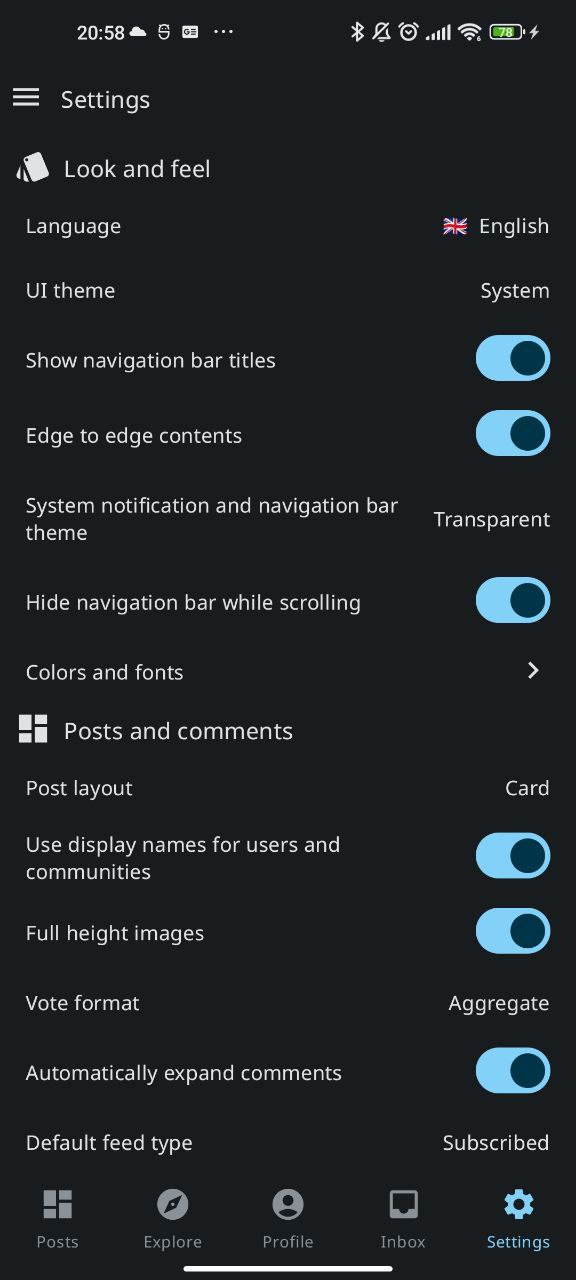
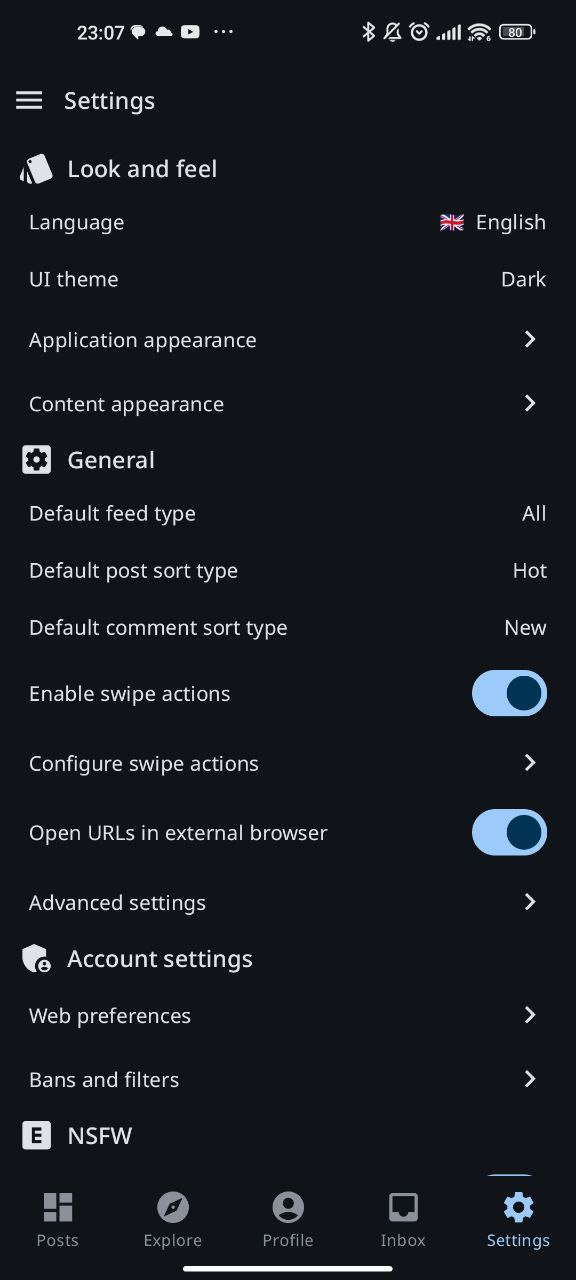
chore: update user manual

diff --git a/docs/user_manual/anon_user.md b/docs/user_manual/anon_user.md
@@ -45,6 +45,8 @@ If your preferred instance is not listed, you can add a new one using the "+" bu
 <img width="310" alt="side menu select instance" src="images/anon_select_instance.png" />
 <img width="310" alt="add instance" src="images/anon_add_instance.png" />
 
+It is possible to reorder items in this list to arrange how instances are displayed.
+
 ### 1.4 Community detail
 
 By tapping on the community info above each post title, you can open the community detail screen,
@@ -72,7 +74,17 @@ information.
 The explore screens allows you to search Lemmy (among All or local feeds) for contents and filter by
 a query string and result type (post, comment, communities, users or everything).
 
-<img width="310" alt="explore" src="images/anon_explore.png" />
+You can change the result type with the second to last action in the top bar, the available options are:
+
+- posts
+- communities
+- comments
+- users
+- URLs.
+
+As in the home screen, you can change the sort type with the last action on the right in the top bar.
+
+<img width="310" alt="explore" src="images/explore.jpg" />
 
 ### 1.7 Profile and Inbox
 
@@ -89,38 +101,15 @@ The settings screen allows you to customize the look and behaviour of your app.
 - Look and feel:
     - Language: choose UI language (app specific);
     - UI theme: choose between light, dark, totally dark or system theme;
-    - System notification and navigation bar theme: if you enable edge-to-edge display, choosing "
-      Transparent" makes the status and nav bar completely transparent, otherwise they have the
-      system color with a slight alpha to make them more visible;
-    - Show navigation bar titles: include the section titles in the bottom navigation bar;
-    - Colors and fonts: opens the color and font configuration screen;
-- Post and comments:
-    - Post layout: choose a layout (Card, Compact, Full) for posts;
-    - Use display names for users and communities: if enabled, uses the user display name and the
-      community title whenever possible, otherwise fallbacks to Lemmy handles (
-      e.g. `!raccoonforlemmy@lemmy.world`);
-    - Vote format: see the score of posts and comments as aggregated (`upvotes - downvotes`), split
-      or percentage (`upvotes / (upvotes + downvotes) * 100`);
-    - Full height images: show images with scaled width and full height (instead of capping the
-      height) in the feed;
+    - Application appearance: opens the configuration screen for colors and fonts of the user interface;
+    - Content appearance: opens the configuration screen for fonts and style of posts and comments;
+- General:
     - Default feed type: listing type for the home screen applied by default
     - Default post sort type: sort type for the home, community detail and user detail applied by
       default;
     - Default comment sort type: sort type for post detail applied by default to comments;
-- Behaviour:
-    - Edge to edge contents: enable the view from top to bottom edge for home, community detail,
-      user detail, post detail and profile to maximize the space dedicated to contents;
-    - Disable infinite scrolling: if this option is enabled, instead of automatically fetching new
-      contents while scrolling (in home, community detail, post detail, user detail) an explicit "
-      Load more" button is shown, in order to prevent the "doom scrolling" effect;
-    - Zombie mode interval duration: amount of time between automatic scroll in "lazy mode";
-    - Zombie mode scroll amount: translation amount for the automatic scroll in "lazy mode";
-    - Hide navigation bar while scrolling: makes the bottom navigation bar invisible while scrolling
-      down to maximize the space dedicated to contents;
-    - Open links in external browser: rely on the external browser instead of in-app web view;
-    - Automatically expand comments: expand all comment threads while opening the post detail;
-    - Automatically load images: load images and videos automatically in post and comments;
-    - Search posts only in title: enable exact match in the Explore section while searching posts;
+    - Open URLs in external browser: rely on the external browser instead of in-app web view;
+    - Advanced settings: opens a detailed configuration screen for more advanced options;
 - NSFW:
     - Include NSFW contents: determine whether NSFW contents are included in the feed by default;
     - Blur NSFW images: in home feed and community (unless the community is marked as NSFW as a
@@ -145,7 +134,7 @@ via adb or the "Device Explorer" if you are using Android Studio.
 <img width="310" alt="settings first part" src="images/anon_settings_1.jpg" />
 <img width="310" alt="settings second part" src="images/anon_settings_2.jpg" />
 
-#### 1.8.1 Colors and fonts
+#### 1.8.1 Application appearance
 
 This screen allows to configure colors and fonts of the UI:
 
@@ -154,12 +143,8 @@ This screen allows to configure colors and fonts of the UI:
 - Custom theme color: (requires "Use dynamic color" option to be off) generate a palette by
   choosing a seed color from a predefined list or custom color;
 - Comment bar theme: palette of colors used to distinguish nested comments;
-- Comment bar width: allows to customize a multiplier applied to the width of comment bar indicating
-  the depth on the left of each comment;
-- UI font family: typeface used for the app UI elements (menus, labels, etc);
-- Content font family: typeface used for post and comments on Lemmy;
+- UI font: typeface used for the app UI elements (menus, labels, etc.);
 - UI text size: scale factor to apply to the app UI elements;
-- Content text size: scale factor to apply to posts and comments on Lemmy;
 
 By the way, if you like Android dynamic colors and you think that on Lemmy there are plenty of
 beautiful images you could set as your home screen background, have a look
@@ -167,7 +152,65 @@ at [this side project](https://github.com/diegoberaldin/CommonGround) of mine. I
 that allows you to configure remote image sources from the Lemmy-verse, preview how they look like
 and set them easily as wallpapers for your home and lock screens.
 
-<img width="310" alt="colors and fonts" src="images/anon_color_fonts.jpg" />
+<img width="310" alt="colors and fonts" src="images/anon_appearance.jpg" />
+
+#### 1.8.2 Content appearance
+
+This screen is useful to configure the aspect of Lemmy contents (usernames, community names, post and comments).
+
+- Text
+    - Content font family: typeface used for post and comments on Lemmy;
+    - Title text size:
+    - Post text size:
+    - Comment text size:
+    - Ancillary text size:
+- Customizations:
+    - Post layout:  choose a layout (Card, Compact, Full) for posts;
+    - Use display names for users and communities: if enabled, uses the user display name and the
+      community title whenever possible, otherwise fallbacks to Lemmy handles (
+      e.g. `!raccoonforlemmy@lemmy.world`);
+    - Full height images: show images with scaled width and full height (instead of capping the
+      height) in the feed;
+    - Vote format: see the score of posts and comments as aggregated (`upvotes - downvotes`), split
+      or percentage (`upvotes / (upvotes + downvotes) * 100`);
+    - Comment bar thickness: allows to customize a multiplier applied to the width of comment bar indicating
+      the depth on the left of each comment.
+
+You can see a preview of the result below the list of options.
+
+<img width="310" alt="settings first part" src="images/content_appearance_1.jpg" />
+<img width="310" alt="settings second part" src="images/content_appearance_2.jpg" />
+
+#### 1.8.3 Advanced settings
+
+This screen contains a series of less frequently used customization options:
+
+- Display:
+    - Show navigation bar titles: include the section titles in the bottom navigation bar;
+    - Edge to edge contents: enable the view from top to bottom edge for home, community detail,
+      user detail, post detail and profile to maximize the space dedicated to contents;
+    - System notification and navigation bar theme: if you enable edge-to-edge display, choosing "
+      Transparent" makes the status and nav bar completely transparent, otherwise they have the
+      system color with a slight alpha to make them more visible;
+    - Hide navigation bar while scrolling: makes the bottom navigation bar invisible while scrolling
+      down to maximize the space dedicated to contents;
+- Reading and contents:
+    - Default feed type for explore: default listing type used in the Explore screen;
+    - Default language in editor: language for newly created posts and comments;
+    - Disable infinite scrolling: if this option is enabled, instead of automatically fetching new
+      contents while scrolling (in home, community detail, post detail, user detail) an explicit "
+      Load more" button is shown, in order to prevent the "doom scrolling" effect;
+    - Automatically expand comments: expand all comment threads while opening the post detail;
+    - Zombie mode interval duration: amount of time between automatic scroll in "lazy mode";
+    - Zombie mode scroll amount: translation amount for the automatic scroll in "lazy mode";
+- Pictures
+    - Automatically load images: load images and videos automatically in post and comments;
+    - Save images in specific subdirectories: use the community or user handle to save images when downloading them
+      into your Gallery;
+- Experiments:
+    - Search posts only in title: enable exact match in the Explore section while searching posts;
+
+<img width="310" alt="settings first part" src="images/anon_advanced_settings.jpg" />
 
 ### 1.9 Moderation log
 

diff --git a/docs/user_manual/logged_user.md b/docs/user_manual/logged_user.md
@@ -2,7 +2,7 @@
 
 ### 2.1 Home
 
-As for anonymous users, the home screen contains the post list with the same information displayed.
+When you are logged, as for anonymous users, the home screen contains the post list with the same information displayed.
 The main difference is that, as a logged user, you can save posts and vote (either up or down)
 contents. You will also find more options in the "…" button.
 
@@ -15,9 +15,10 @@ enabled the "Mark read while scrolling" option in the Settings screen) just seen
 
 ### 2.2 Sidebar
 
-For logged users, the side menu allows to see the list of subscriptions, with the ones that you
-marked as favorite to the top of the list. By clicking on each item, you will open the corresponding
-community or multi-community detail.
+The side menu allows to see the list of subscriptions, with the ones that you marked as favorite to the top of the list.
+By clicking on each item, you will open the corresponding community or multi-community detail.
+
+You can use the search field to look for a specific community.
 
 <img width="310" alt="side bar" src="images/logged_side_menu.jpg" />
 
@@ -26,12 +27,24 @@ community or multi-community detail.
 The Explore screen is similar to the one of anonymous users. Like in the home screen, the difference
 if that you can vote, save and reply to contents you are seeing.
 
-<img width="310" alt="explore" src="images/logged_explore.jpg" />
+<img width="310" alt="explore" src="images/explore.jpg" />
 
 ### 2.4 Profile
 
 The Profile screen shows the list of post and comments that you created and some textual statistics
 about your post and comment count and your Lemmy-birthday.
+
+Above the post and comments, you can find the shortcuts to access the following sections:
+
+- Manage subscriptions: a screen where you can review your subscriptions and create multi-communities
+- Saved: access the list of your saved items (posts and comments);
+- Drafts: access the unfinished posts and comments that you have saved;
+- Upvotes &amp; downvotes: review the contents that you have liked or disliked;
+- Moderation tools: if you are a moderator you can easily access:
+    - Report list: list of all the reports for posts and comments in your communities;
+    - Moderation log: global moderation log;
+    - Moderated contents: review all the contents that have been posted (either in the form of posts or comments) to
+      your communities.
 
 In the top right corner of the app bar, you'll find a button to log out and another one to change
 account (or access with a different one).
@@ -59,29 +72,24 @@ The settings screen for logged users is very similar to the one of anonymous use
 additional items and sub-screens.
 
 Please refer to [description of the page](#18-settings) for anonymous users for the common parts,
-here is a description of the additional functions:
+a short description of the additional functions will follow.
 
-- Posts and comments:
-    - Default inbox type: whether the Inbox includes all contents by default of just unread ones;
-- Behaviour:
-    - Mark posts as read when scrolling: instead of marking posts read with an explicit
-      interaction, posts are marked as read on the fly as they become visible while scrolling;
-    - Enable double tap action: instead of using swipe actions, this option activated the "
-      double tap to like" mode some users may be familiar with from other social apps;
-    - Configure swipe actions: opens the configure swipe actions screen;
-    - Enable swipe actions: whether the swipe to left/right actions are enabled in post and comment
+- General:
+    - Default feed type: you will find the "Subscribed" option which is not available for anonymous users;
+    - Enable swipe actions:whether the swipe to left/right actions are enabled in post and comment
       list, inbox and reports;
+    - Configure swipe actions: opens the configure swipe actions screen;
 - Account settings:
-    - Web preferences: allows you to edit web account preferences;
+    - Web preferences: allows you to edit your Lemmy web preferences;
     - Bans and filters: configure user/community/instance ban and filtering options.
 
 <img width="310" alt="settings 1" src="images/logged_settings_1.jpg" />
 <img width="310" alt="settings 3" src="images/logged_settings_2.jpg" />
-<img width="310" alt="settings 2" src="images/logged_settings_3.jpg" />
 
-#### 2.6.1 Colors and fonts
+#### 2.6.1 Application appearance
 
-This screen for anonymous users allows to configure custom colors for swipe actions:
+This screen is similar to the one for anonymous users, but additionally it allows to configure custom colors for swipe
+actions:
 
 - Upvote color: color of the upvote action (both used as a card background when swiping and to
   highlight the vote indicator when you have upvoted a content);
@@ -90,7 +98,18 @@ This screen for anonymous users allows to configure custom colors for swipe acti
 - Reply action color: card background color for the reply action;
 - Save action color: card background color for the save action;
 
-<img width="310" alt="colors and fonts" src="images/logged_color_fonts.jpg" />
+#### 2.6.2 Advanced settings
+
+Even in this case, the screen is very similar to the one anonymous users are presented, but it has some additional
+options:
+
+- Reading and contents:
+    - Default inbox type: whether the Inbox includes all contents by default of just unread ones;
+    - Mark posts as read when scrolling: instead of marking posts read with an explicit
+      interaction, posts are marked as read on the fly as they become visible while scrolling;
+- Experiments:
+    - Enable double tap action: instead of using swipe actions, this option activated the "double tap to like" mode some
+      users may be familiar with from other social apps.
 
 #### 2.6.2 Configure swipe actions
 
